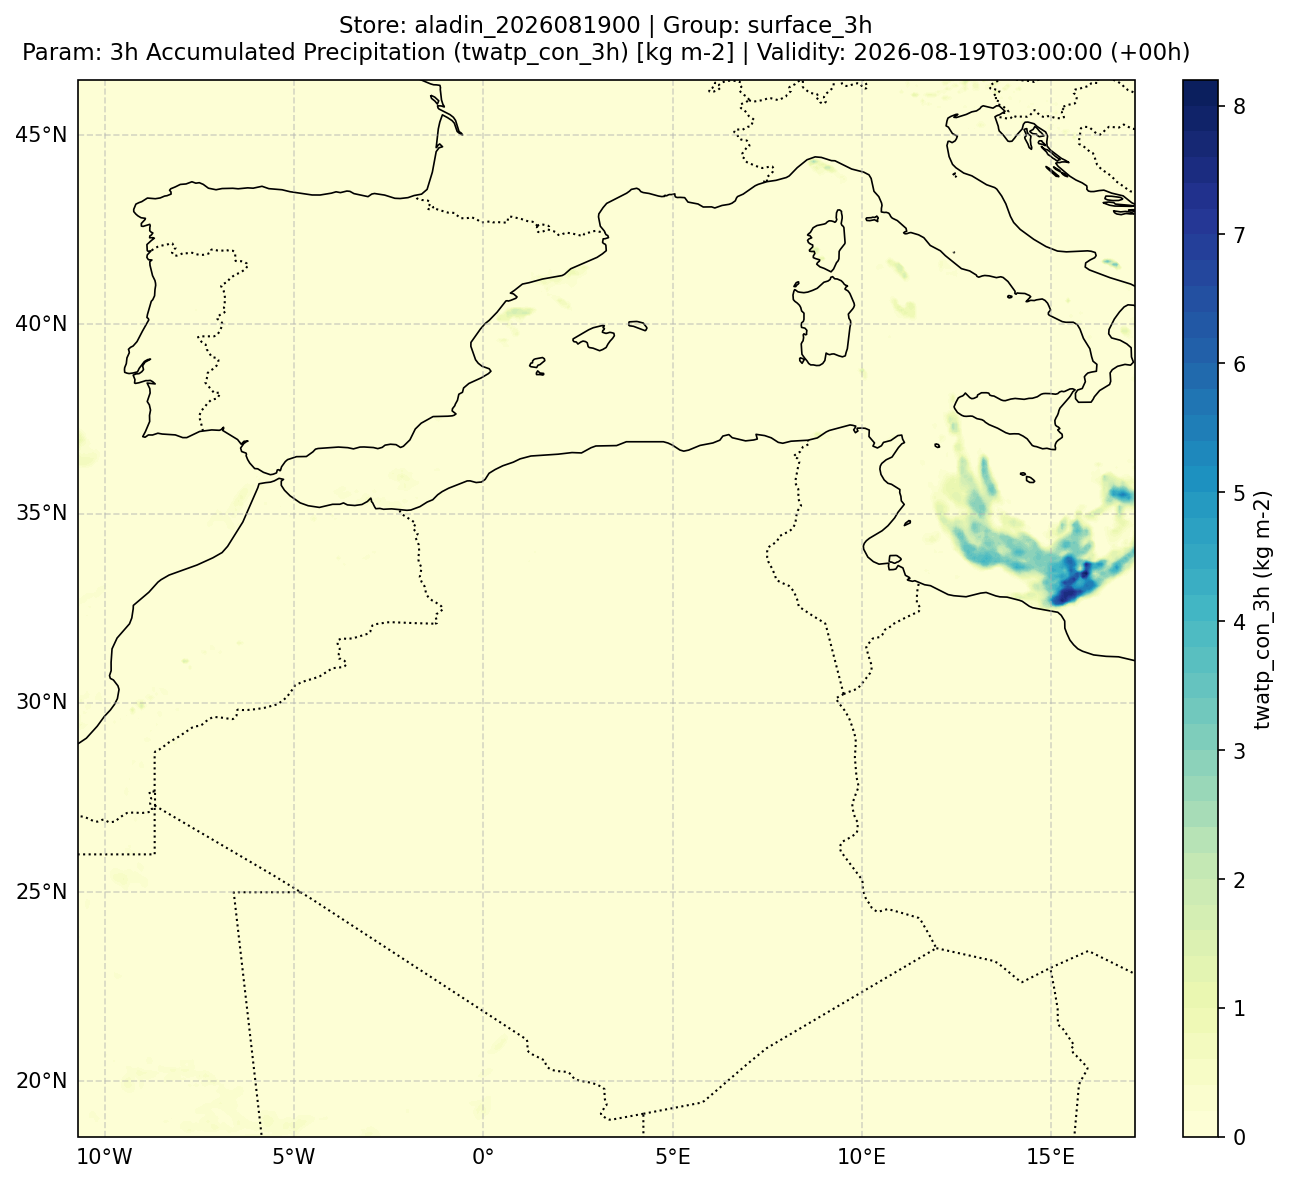
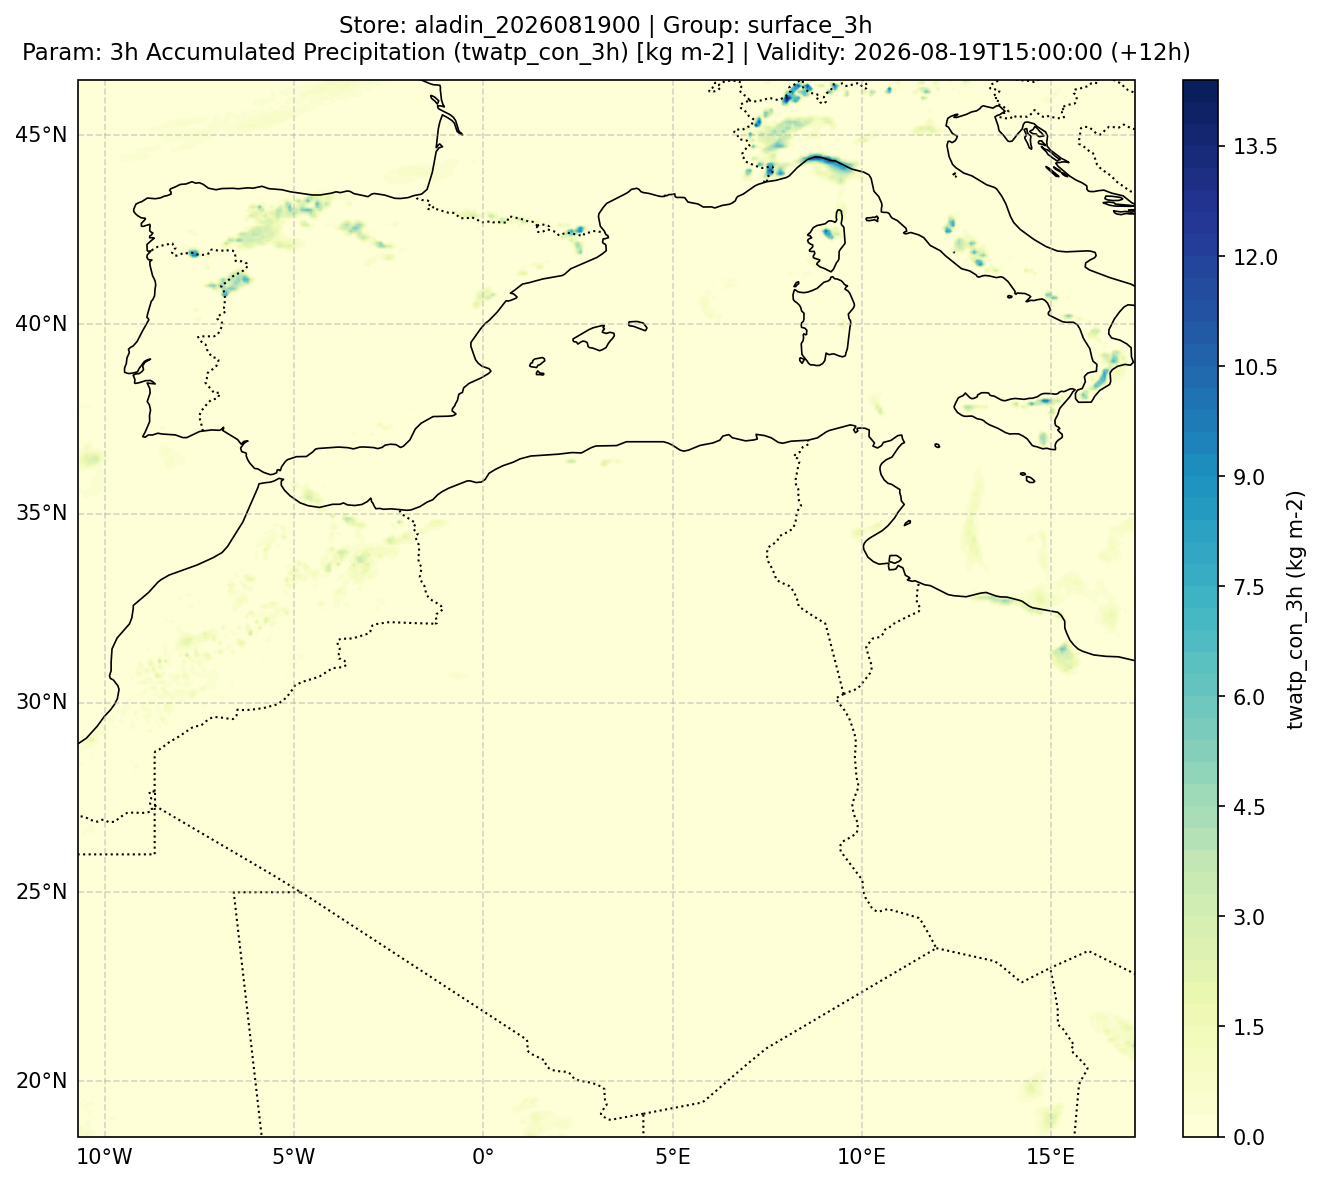
docs: enrich plotting gallery with 5 realistic ALADIN maps including wind barbs, streamlines, 500hPa geopotential contours, and decumulated rain

diff --git a/docs/source/plotting.md b/docs/source/plotting.md
@@ -4,13 +4,37 @@
 
 ---
 
-## 1. Gallery of Generated Products (ALADIN Full Domain)
+## 1. Gallery of Generated Products (ALADIN Operational Domain)
 
-Here are sample figures generated directly from real ALADIN operational model outputs converted with `meteo2zarr`:
+The following figures illustrate the diverse plotting capabilities of `meteo2zarr` generated directly from the complete operational ALADIN dataset:
+
+### 10m Wind Vectors (Meteorological Barbs & Color-coded Speed)
+```python
+store.plot(wu='u10', wv='v10', timestep=12, group='surface', vector_plot_method='barbs', vectors_subsampling=14, savefig=True)
+```
+!['ALADIN 10m Wind Barbs and Speed'](_static/images/aladin_wind_barbs.png)
+
+---
+
+### Streamlines over 2m Temperature Background
+```python
+store.plot(field='t2', wu='u10', wv='v10', timestep=12, group='surface', vector_plot_method='streamplot', plot_method='pcolormesh', colormap='Spectral_r', savefig=True)
+```
+!['ALADIN Streamlines over Temperature'](_static/images/aladin_temp_streamlines.png)
+
+---
+
+### 500 hPa Geopotential Height (Isoline Contours)
+```python
+store.plot(field='gh500', timestep=12, group='alt_pressure', plot_method='contour', colormap='viridis', savefig=True)
+```
+!['ALADIN 500 hPa Geopotential Height Contours'](_static/images/aladin_gh500_contour.png)
+
+---
 
 ### 2m Temperature Field (Shaded Contours + Turbo Colormap)
 ```python
-store.plot('t2', timestep=3, plot_method='contourf', colormap='turbo', savefig=True)
+store.plot(field='t2', timestep=12, plot_method='contourf', colormap='turbo', savefig=True)
 ```
 !['ALADIN 2m Temperature Forecast (contourf)'](_static/images/aladin_t2_contourf.png)
 
@@ -18,25 +42,9 @@ store.plot('t2', timestep=3, plot_method='contourf', colormap='turbo', savefig=T
 
 ### Decumulated 3-Hour Convective Precipitation
 ```python
-store.plot('twatp_con_3h', timestep=0, group='surface_3h', plot_method='contourf', colormap='YlGnBu', savefig=True)
+store.plot(field='twatp_con_3h', timestep=12, group='surface_3h', plot_method='contourf', colormap='YlGnBu', savefig=True)
 ```
 !['ALADIN 3h Decumulated Convective Rain'](_static/images/aladin_precip_3h.png)
-
----
-
-### Decumulated 6-Hour Large-Scale Precipitation
-```python
-store.plot('twatp_gec_6h', timestep=0, group='surface_6h', plot_method='contourf', colormap='Blues', savefig=True)
-```
-!['ALADIN 6h Decumulated Large Scale Rain'](_static/images/aladin_precip_6h.png)
-
----
-
-### 2m Temperature Field (Fast Pcolormesh + Spectral_r)
-```python
-store.plot('t2', timestep=0, plot_method='pcolormesh', colormap='Spectral_r', savefig=True)
-```
-!['ALADIN 2m Temperature (pcolormesh)'](_static/images/aladin_t2_pcolormesh.png)
 
 ---
 
@@ -45,7 +53,7 @@ store.plot('t2', timestep=0, plot_method='pcolormesh', colormap='Spectral_r', sa
 When saving with `-O` or `savefig=True`, filenames and titles follow clean, structured conventions:
 
 - Filename format: `<store>_<subgroup>_<param>_<date>_<timestep>.png`  
-  *Example*: `aladin_2026081900_surface_t2_2026081903_t03.png`
+  *Example*: `aladin_2026081900_surface_t2_2026081912_t12.png`
 - Title format (2-line layout):
   ```text
   Store: <store> | Group: <group>
@@ -57,17 +65,20 @@ When saving with `-O` or `savefig=True`, filenames and titles follow clean, stru
 ## 3. CLI Commands Reference
 
 ```bash
-# Plot with automatic naming and 2-line header
-meteo2zarr plot output_zarr/aladin_2026081900 -f t2 --timestep 3 -O
+# Plot 10m wind barbs with background speed
+meteo2zarr plot output_zarr/aladin_2026081900 --wU u10 --wV v10 --vpm barbs -s 14 -O
+
+# Streamlines over 2m temperature
+meteo2zarr plot output_zarr/aladin_2026081900 -f t2 --wU u10 --wV v10 --vpm streamplot -c Spectral_r -O
+
+# 500 hPa Geopotential Height isolines
+meteo2zarr plot output_zarr/aladin_2026081900 -f gh500 -g alt_pressure --pm contour -c viridis -O
 
 # Shaded contour plot (contourf) with custom colormap
 meteo2zarr plot output_zarr/aladin_2026081900 -f t2 --pm contourf -c turbo -O
 
 # Centering colormap on 0 (ideal for anomalies or Celsius temperature around 0°C)
 meteo2zarr plot output_zarr/aladin_2026081900 -f t2 -t -O
-
-# Clamped range min/max
-meteo2zarr plot output_zarr/aladin_2026081900 -f t2 -m "0,45" -O
 
 # Geographic zoom onto custom bounding box
 meteo2zarr plot output_zarr/aladin_2026081900 -f t2 --zoom "lonmin=-2, lonmax=12, latmin=30, latmax=40" -O
